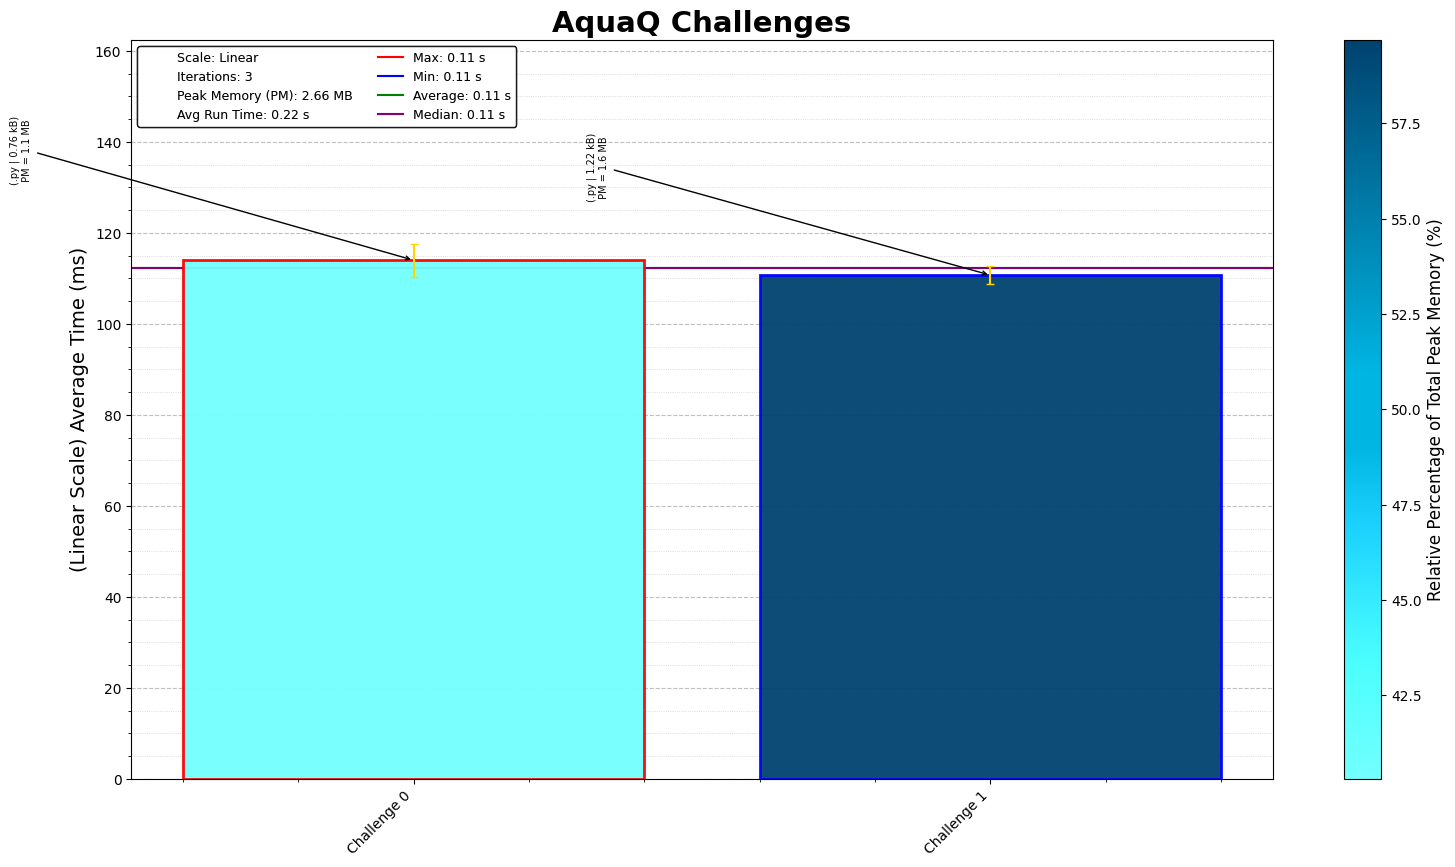
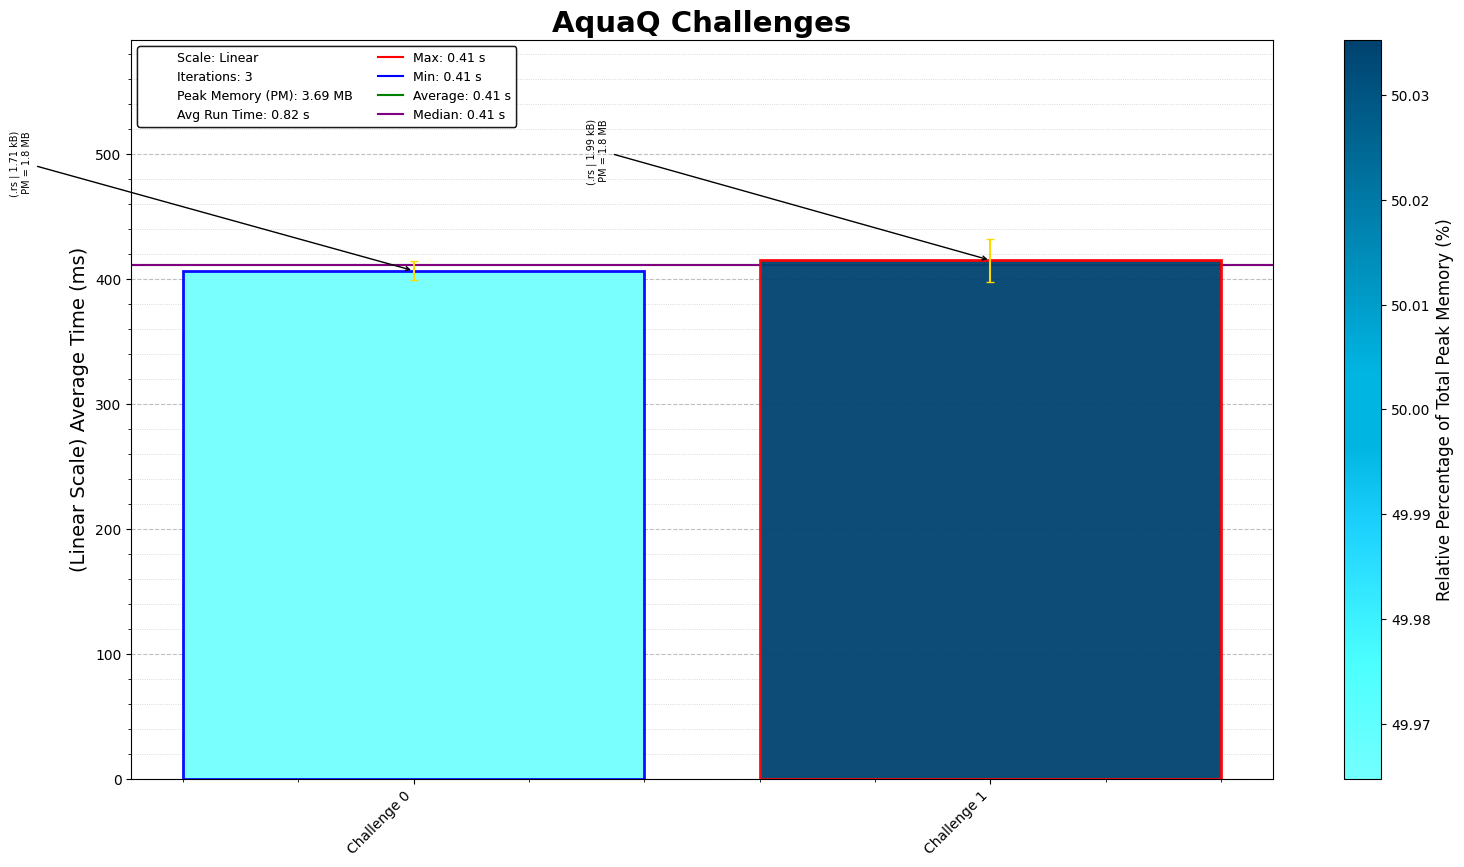
Switch AquaQ Challenges to rust

diff --git a/AquaQ/src/bin/AquaQ_01.rs b/AquaQ/src/bin/AquaQ_01.rs
@@ -1,0 +1,69 @@
+/* AquaQ Puzzles - Puzzle 1
+Solution Started: September 72025,
+Puzzle Link: https://challenges.aquaq.co.uk/challenge/1
+Solution by: Abbas Moosajee
+Brief: [Rose by any other name] */
+
+use std::{fs, env, error::Error};
+use std::collections::HashSet;
+
+const HEXADECIMAL_CHARS: &str = "0123456789abcdef";
+
+/// Replace non-hex chars with '0'
+fn to_hex_string(s: &str) -> String {
+    let hexset: HashSet<char> = HEXADECIMAL_CHARS.chars().collect();
+    s.chars()
+        .map(|c| if hexset.contains(&c) { c } else { '0' })
+        .collect()
+}
+
+/// Pad string length to nearest multiple of 3
+fn pad_to_next_multiple_of_3(s: &str, pad_char: char) -> String {
+    let pad_len = (3 - (s.len() % 3)) % 3;
+    let mut result = String::from(s);
+    for _ in 0..pad_len {
+        result.push(pad_char);
+    }
+    result
+}
+
+/// Process string: sanitize, pad, split, and join
+fn process_string(data: &str) -> String {
+    let hex_chars = to_hex_string(data);
+    let padded = pad_to_next_multiple_of_3(&hex_chars, 'X');
+    let split_size = padded.len() / 3;
+
+    padded
+        .as_bytes()
+        .chunks(split_size)
+        .map(|chunk| {
+            let part: String = chunk.iter().map(|&b| b as char).collect();
+            part.chars().take(2).collect::<String>()
+        })
+        .collect::<Vec<String>>()
+        .join("")
+}
+
+fn main() -> Result<(), Box<dyn Error>> {
+
+    // Get the first command-line argument, or default to "Lang06_input.txt"
+    let args: Vec<String> = env::args().collect();
+    let file_path = if args.len() > 1 {
+        &args[1]  // Use the provided file path
+    } else {
+        "../../inputs/challenge_01.txt"  // Default file
+    };
+
+    let contents = fs::read_to_string(file_path)?;
+
+    let data: Vec<&str> = contents
+        .lines()
+        .map(|line| line.trim())
+        .filter(|line| !line.is_empty())
+        .collect();
+
+    let final_string = process_string(data[0]);
+    println!("Challenge 01: {}", final_string);
+
+    Ok(())
+}

diff --git a/AquaQ/src/bin/AquaQ_00.rs b/AquaQ/src/bin/AquaQ_00.rs
@@ -1,0 +1,62 @@
+/* AquaQ Puzzles - Puzzle 0
+Solution Started: September 7, 2025,
+Puzzle Link: https://challenges.aquaq.co.uk/challenge/0
+Solution by: Abbas Moosajee
+Brief: [What's a numpad] */
+
+use std::{fs, env, error::Error};
+use std::collections::HashMap;
+
+fn main() -> Result<(), Box<dyn Error>> {
+
+    // Get the first command-line argument, or default to "Lang06_input.txt"
+    let args: Vec<String> = env::args().collect();
+    let file_path = if args.len() > 1 {
+        &args[1]  // Use the provided file path
+    } else {
+        "../../inputs/challenge_00.txt"  // Default file
+    };
+
+    let contents = fs::read_to_string(file_path)?;
+
+
+    let data: Vec<&str> = contents
+        .lines()
+        .map(|line| line.trim())
+        .filter(|line| !line.is_empty())
+        .collect();
+
+    // build T9 dictionary
+    let mut t9_dict: HashMap<i32, &str> = HashMap::new();
+    t9_dict.insert(2, "abc");
+    t9_dict.insert(3, "def");
+    t9_dict.insert(4, "ghi");
+    t9_dict.insert(5, "jkl");
+    t9_dict.insert(6, "mno");
+    t9_dict.insert(7, "pqrs");
+    t9_dict.insert(8, "tuv");
+    t9_dict.insert(9, "wxyz");
+    t9_dict.insert(1, " ");
+    t9_dict.insert(0, " ");
+
+    // build message
+    let mut message = String::new();
+    for entry in data {
+        let parts: Vec<i32> = entry
+            .split_whitespace()
+            .map(|s| s.parse::<i32>().unwrap())
+            .collect();
+        let key = parts[0];
+        let press = parts[1];
+
+        if let Some(letters) = t9_dict.get(&key) {
+            if let Some(ch) = letters.chars().nth((press - 1) as usize) {
+                message.push(ch);
+            }
+        }
+    }
+
+    println!("Challenge 00: {}", message);
+
+    Ok(())
+}

diff --git a/AquaQ/runAquaQ.rs b/AquaQ/runAquaQ.rs
@@ -1,0 +1,38 @@
+use std::process::{Command, Stdio};
+use std::{env, path::PathBuf};
+
+/// Run a python script from rust file
+pub fn run_python(script_path: &str) {
+    // Determine the Python executable based on OS
+    let python_exe = if cfg!(target_os = "windows") {
+        "python"
+    } else {
+        "python3"
+    };
+
+    // Get current executable directory
+    let exe_path: PathBuf = env::current_exe().expect("Failed to get current exe path");
+    let script_dir = exe_path.parent().expect("Failed to get parent dir");
+
+    println!("=== Running Python script {} ===", script_path);
+
+    let output = Command::new(python_exe)
+        .arg(script_path)
+        .current_dir(script_dir) // ensures relative paths work
+        .stdout(Stdio::piped())
+        .stderr(Stdio::piped())
+        .spawn()
+        .expect("Failed to spawn python process")
+        .wait_with_output()
+        .expect("Failed to wait on python process");
+
+    println!("{}", String::from_utf8_lossy(&output.stdout));
+    if !output.stderr.is_empty() {
+        eprintln!("Error: {}", String::from_utf8_lossy(&output.stderr));
+    }
+}
+
+fn main() {
+    let python_script = "../../runAquaQ.py";
+    run_python(python_script);
+}

diff --git a/Create_Script.py b/Create_Script.py
@@ -2,14 +2,15 @@ from pathlib import Path
 from challenge_utils import ScriptBuilder
 
 # Constants
-PROBLEM_NO = 14
-CHALLENGE = "MNG"
-CHOSEN_LANGUAGE = "js"
+PROBLEM_NO = 2
+CHALLENGE = "aquaq"
+CHOSEN_LANGUAGE = "rust"
 
 AUTHOR = "Abbas Moosajee"
 
 CONFIG_DICT = {
     "MNG": ("MNG", "MNG_challenge.json"),
+    "aquaq": ("AquaQ", "AquaQ_challenge.json"),
 }
 
 def main() -> None:

diff --git a/AquaQ/runAquaQ.py b/AquaQ/runAquaQ.py
@@ -13,7 +13,7 @@ if __name__ == "__main__":
 
     base_dir = Path.cwd() / "AquaQ"
     script_dir = Path(__file__).parent.resolve()
-    selected_dir = base_dir
+    selected_dir = script_dir
     config_file = "AquaQ_challenge.json"
     PROBLEMS_TO_RUN = list(range(0, 41))  # Problems 1-25
 
